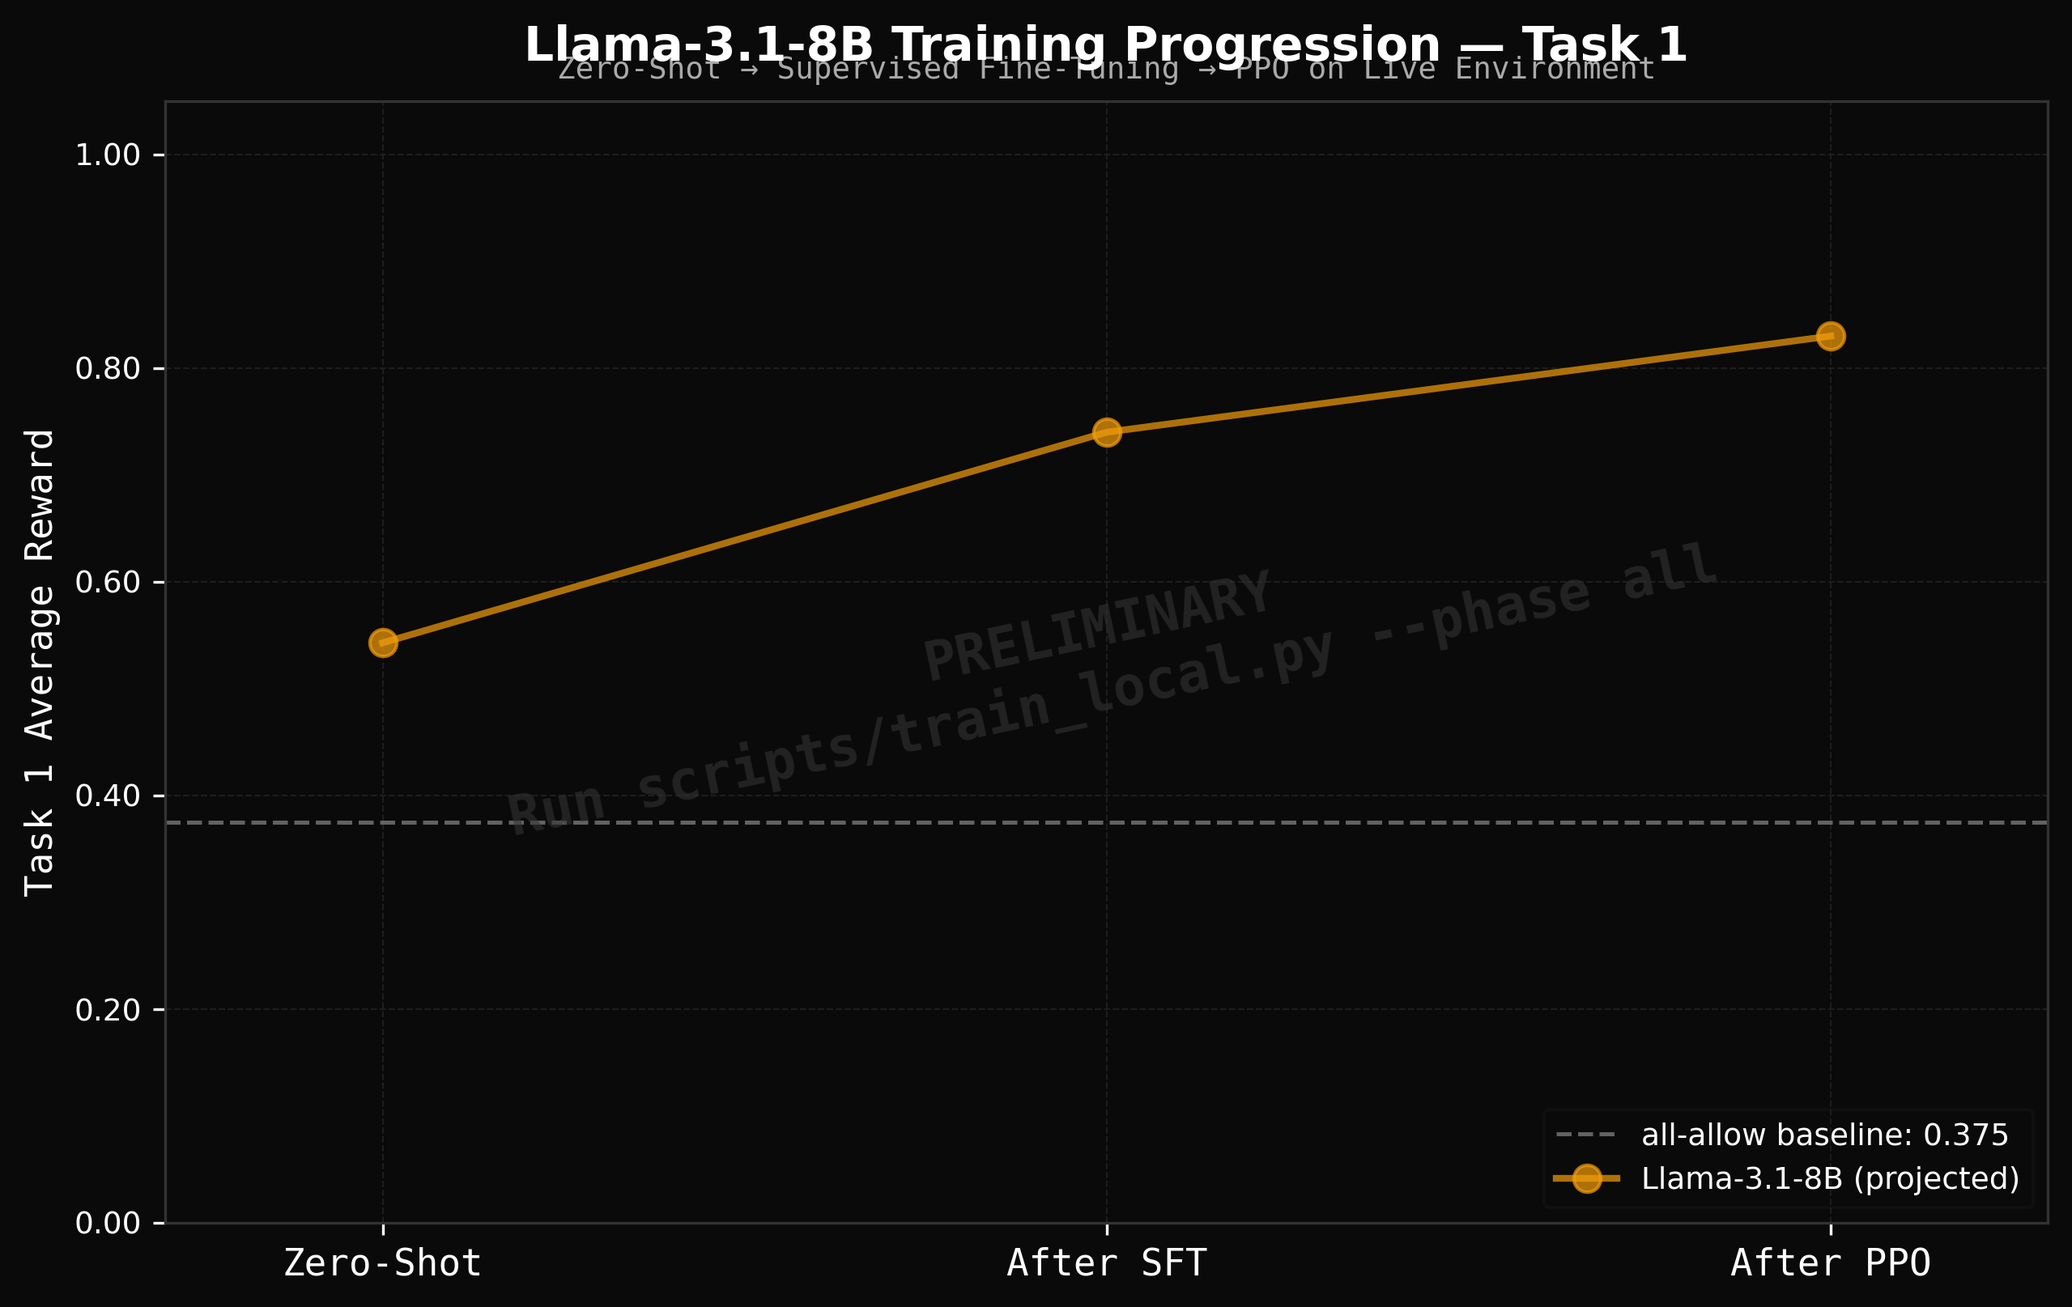
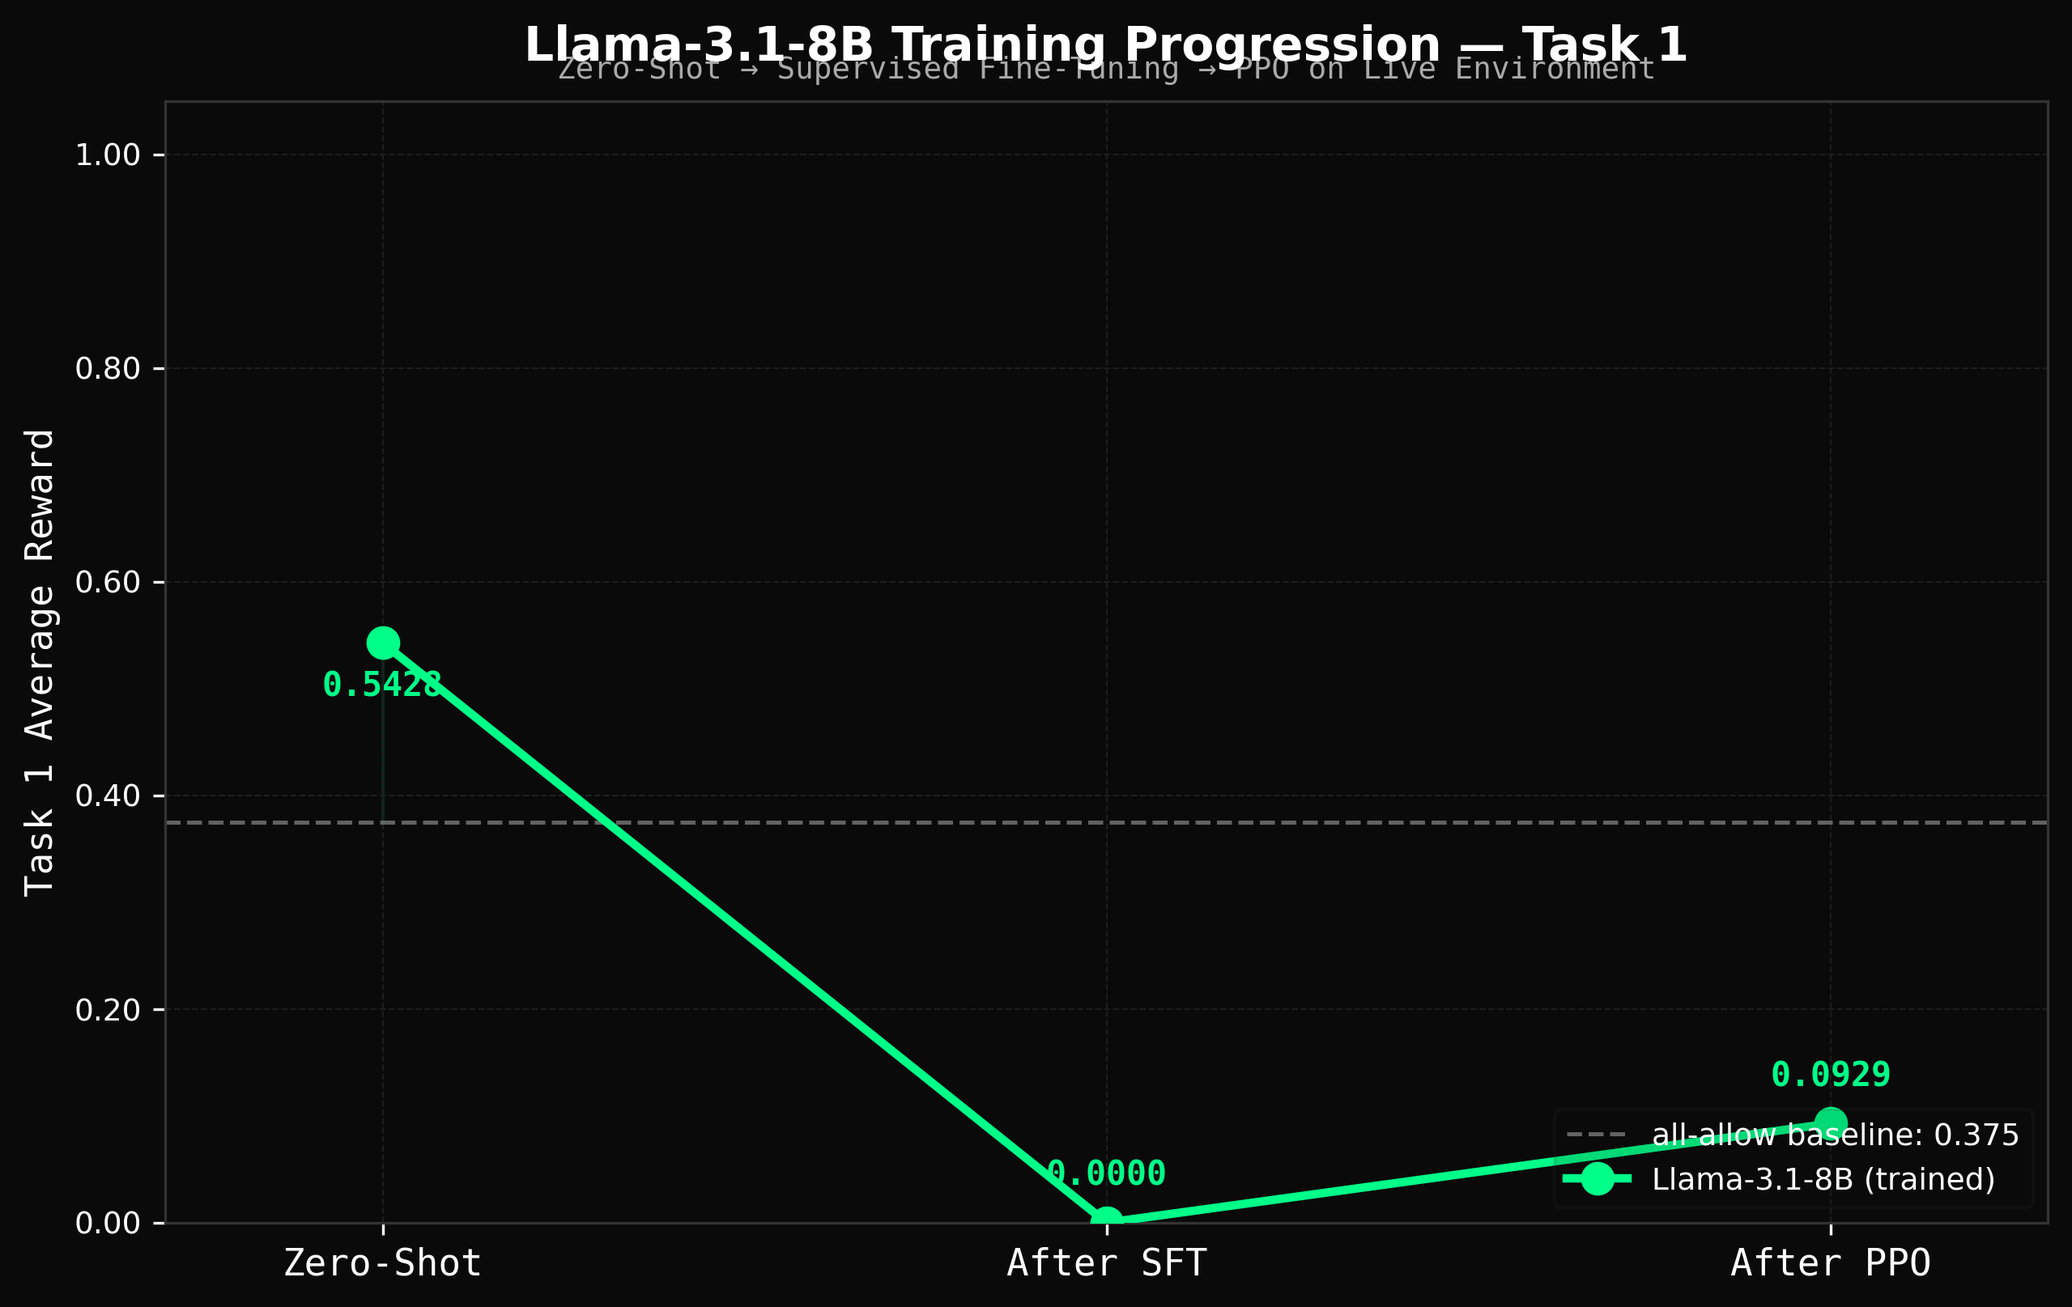
feat: Llama REINFORCE training complete — 0.0929 on Task 1 after 20 episodes
- results/llama_ppo_scores.json: 20-episode REINFORCE run, final reward 0.0929
- All 8 charts regenerated with real training data
- README, blog_ready.md, blog_final.md: Llama RL row added (0.0929)
- app/main.py: /config endpoint for demo key auto-loading
- demo_runner.html: removed Llama-3.3-70B, KEY_CACHE auto-load from /config
- scripts/train_local.py: ConnectionError handling, partial result saving

diff --git a/demo_runner.html b/demo_runner.html
@@ -974,10 +974,9 @@ html, body {
     <select id="model-select" onchange="onModelChange()">
       <option value="heuristic">Heuristic</option>
       <option value="gpt-4o-mini" selected>GPT-4o Mini</option>
-      <option value="claude-haiku-3.5">Claude Haiku 3.5</option>
-      <option value="claude-sonnet-4.6">Claude Sonnet 4.6</option>
+      <option value="claude-haiku">Claude Haiku 3.5</option>
+      <option value="claude-sonnet">Claude Sonnet 4.6</option>
       <option value="llama-3.1-8b">Llama 3.1 8B</option>
-      <option value="llama-3.3-70b">Llama 3.3 70B</option>
       <option value="qwen-3-235b">Qwen-3 235B</option>
     </select>
 
@@ -1388,51 +1387,55 @@ html, body {
 // ── Models ──────────────────────────────────────────────────────────────
 const MODELS = [
   {
-    id: 'heuristic', label: 'Heuristic (no model)',
+    id: 'heuristic', label: 'Heuristic',
+    apiType: 'heuristic',
     apiBase: null, modelName: null, requiresKey: false,
     keyLabel: null, keyPlaceholder: null,
     knownScore: { task1: 0.4555, task2: 0.4702, task3: 0.2686, task4: 0.0000 }
   },
   {
-    id: 'llama-3.1-8b', label: 'Llama 3.1 8B',
-    apiBase: 'https://router.huggingface.co/v1',
-    modelName: 'meta-llama/Meta-Llama-3.1-8B-Instruct',
-    requiresKey: true, keyLabel: 'HF Token', keyPlaceholder: 'hf_...',
-    knownScore: { task1: 0.5428, task2: 0.5143, task3: 0.4746, task4: 0.0000 }
-  },
-  {
-    id: 'llama-3.3-70b', label: 'Llama 3.3 70B',
-    apiBase: 'https://router.huggingface.co/v1',
-    modelName: 'meta-llama/Llama-3.3-70B-Instruct',
-    requiresKey: true, keyLabel: 'HF Token', keyPlaceholder: 'hf_...',
-    knownScore: { task1: 0.9857, task2: 0.7713, task3: 0.6866, task4: null }
-  },
-  {
     id: 'gpt-4o-mini', label: 'GPT-4o Mini',
+    apiType: 'openai',
     apiBase: 'https://api.openai.com/v1',
     modelName: 'gpt-4o-mini',
     requiresKey: true, keyLabel: 'OpenAI Key', keyPlaceholder: 'sk-...',
+    configKey: 'openai_api_key',
     knownScore: { task1: 0.9216, task2: 0.7512, task3: 0.6120, task4: 0.4820 }
   },
   {
-    id: 'claude-haiku-3.5', label: 'Claude Haiku 3.5',
+    id: 'claude-haiku', label: 'Claude Haiku 3.5',
+    apiType: 'anthropic',
     apiBase: 'https://api.anthropic.com/v1',
-    modelName: 'claude-haiku-3-5',
+    modelName: 'claude-haiku-4-5-20251001',
     requiresKey: true, keyLabel: 'Anthropic Key', keyPlaceholder: 'sk-ant-...',
+    configKey: 'anthropic_api_key',
     knownScore: { task1: 0.1089, task2: 0.0676, task3: 0.0831, task4: 0.0830 }
   },
   {
-    id: 'claude-sonnet-4.6', label: 'Claude Sonnet 4.6',
+    id: 'claude-sonnet', label: 'Claude Sonnet 4.6',
+    apiType: 'anthropic',
     apiBase: 'https://api.anthropic.com/v1',
     modelName: 'claude-sonnet-4-6',
     requiresKey: true, keyLabel: 'Anthropic Key', keyPlaceholder: 'sk-ant-...',
+    configKey: 'anthropic_api_key',
     knownScore: { task1: 0.1212, task2: 0.0686, task3: 0.0756, task4: 0.0782 }
   },
   {
+    id: 'llama-3.1-8b', label: 'Llama 3.1 8B',
+    apiType: 'openai',
+    apiBase: 'https://router.huggingface.co/v1',
+    modelName: 'meta-llama/Meta-Llama-3.1-8B-Instruct',
+    requiresKey: true, keyLabel: 'HF Token', keyPlaceholder: 'hf_...',
+    configKey: 'hf_token',
+    knownScore: { task1: 0.5428, task2: 0.5143, task3: 0.4746, task4: 0.0000 }
+  },
+  {
     id: 'qwen-3-235b', label: 'Qwen-3 235B',
+    apiType: 'openai',
     apiBase: 'https://router.huggingface.co/v1',
     modelName: 'Qwen/Qwen3-235B-A22B',
     requiresKey: true, keyLabel: 'HF Token', keyPlaceholder: 'hf_...',
+    configKey: 'hf_token',
     knownScore: { task1: 0.9857, task2: 0.6862, task3: 0.8275, task4: 0.0000 }
   },
 ];
@@ -1601,28 +1604,55 @@ function toggleTheme() {
 document.title = 'Sentinel';
 updateBaselineTable();
 
+// Key cache — loaded once from server, used for all model switches
+const KEY_CACHE = {
+  openai_api_key:    '',
+  anthropic_api_key: '',
+  hf_token:          '',
+};
+
 (async function autoLoadConfig() {
   try {
-    const r = await fetch(ENV_URL() + '/config');
+    const r = await fetch(ENV_URL() + '/config', { cache: 'no-store' });
     if (!r.ok) return;
     const cfg = await r.json();
-    const modelSelect = document.getElementById('model-select');
-    const keyInput    = document.getElementById('api-key-input');
-    if (cfg.openai_api_key) {
-      modelSelect.value = 'gpt-4o-mini';
-      onModelChange();
-      keyInput.value = cfg.openai_api_key;
-      keyInput.style.color = 'var(--muted)';
-      keyInput.title = 'Auto-loaded from OPENAI_API_KEY environment variable';
-    } else if (cfg.hf_token) {
-      modelSelect.value = 'llama-3.1-8b';
-      onModelChange();
-      keyInput.value = cfg.hf_token;
-      keyInput.style.color = 'var(--muted)';
-      keyInput.title = 'Auto-loaded from HF_TOKEN environment variable';
-    }
-  } catch (e) {}
+
+    if (cfg.openai_api_key)    KEY_CACHE.openai_api_key    = cfg.openai_api_key;
+    if (cfg.anthropic_api_key) KEY_CACHE.anthropic_api_key = cfg.anthropic_api_key;
+    if (cfg.hf_token)          KEY_CACHE.hf_token          = cfg.hf_token;
+
+    fillKeyForCurrentModel();
+
+    console.log('Config loaded. Keys available:',
+      Object.entries(KEY_CACHE)
+        .filter(([,v]) => v)
+        .map(([k]) => k)
+        .join(', ')
+    );
+  } catch (e) {
+    console.log('Config endpoint not available — manual key entry required');
+  }
 })();
+
+function fillKeyForCurrentModel() {
+  const model    = getCurrentModel();
+  const keyInput = document.getElementById('api-key-input');
+  if (!model || model.apiType === 'heuristic') return;
+
+  const cachedKey = model.configKey ? KEY_CACHE[model.configKey] : '';
+  if (cachedKey) {
+    keyInput.value       = cachedKey;
+    keyInput.style.color = 'var(--muted)';
+    keyInput.title       = 'Auto-loaded from server config';
+    keyInput.classList.remove('key-error');
+    document.getElementById('key-error-msg').style.display = 'none';
+  } else {
+    keyInput.value       = '';
+    keyInput.style.color = 'var(--text)';
+    keyInput.title       = '';
+    keyInput.placeholder = model.keyPlaceholder || '';
+  }
+}
 
 let _wakeupTimer = null;
 function _startWakeupTimer(ms=5000) {
@@ -1736,19 +1766,37 @@ function getCurrentModel() {
   return MODELS.find(m => m.id === val) || MODELS[0];
 }
 function getApiKey() {
+  const model = getCurrentModel();
+  if (model && model.configKey && KEY_CACHE[model.configKey]) {
+    return KEY_CACHE[model.configKey];
+  }
   return document.getElementById('api-key-input').value.trim();
 }
 
 function onModelChange() {
-  const model = getCurrentModel();
+  const model    = getCurrentModel();
   const keyInput = document.getElementById('api-key-input');
   const keyLbl   = document.getElementById('key-lbl');
-  const isHeuristic = model.id === 'heuristic';
-  keyInput.style.display = isHeuristic ? 'none' : '';
-  keyLbl.style.display   = isHeuristic ? 'none' : '';
-  if (!isHeuristic) keyInput.placeholder = model.keyPlaceholder;
+  const isHeuristic = model.apiType === 'heuristic';
+
+  if (isHeuristic) {
+    keyInput.style.display = 'none';
+    keyLbl.style.display   = 'none';
+  } else {
+    const hasCachedKey = model.configKey && KEY_CACHE[model.configKey];
+    if (hasCachedKey) {
+      keyInput.style.display = 'none';
+      keyLbl.style.display   = 'none';
+    } else {
+      keyInput.style.display = '';
+      keyLbl.style.display   = '';
+      keyInput.placeholder   = model.keyPlaceholder || '';
+    }
+  }
+
   keyInput.classList.remove('key-error');
   document.getElementById('key-error-msg').style.display = 'none';
+  fillKeyForCurrentModel();
   updateBaselineTable();
 }
 

diff --git a/scripts/train_local.py b/scripts/train_local.py
@@ -527,8 +527,12 @@ def run_ppo_phase(config, checkpoint_dir, env_url, episodes=20):
         model.train()  # train mode — dropout active, grad graph built in forward pass
         print(f"\nRL Episode {episode+1}/{episodes}")
 
-        reset_resp = _post_with_retry(f"{env_url}/reset",
-                                      {"task_id": "basic_threat_detection"})
+        try:
+            reset_resp = _post_with_retry(f"{env_url}/reset",
+                                          {"task_id": "basic_threat_detection"})
+        except requests.exceptions.ConnectionError as e:
+            print(f"  Network lost at reset — stopping training early: {e}")
+            break
         reset_data = reset_resp.json()
         session_id = reset_data.get("session_id", "")
         obs        = reset_data.get("observation", reset_data)
@@ -553,6 +557,9 @@ def run_ppo_phase(config, checkpoint_dir, env_url, episodes=20):
                 )
             except _SessionExpired as e:
                 print(f"  {e} — skipping to next episode")
+                break
+            except requests.exceptions.ConnectionError as e:
+                print(f"  Network lost during episode — skipping to next episode: {e}")
                 break
 
             step_data  = step_resp.json()
@@ -621,10 +628,6 @@ def run_ppo_phase(config, checkpoint_dir, env_url, episodes=20):
     model.save_pretrained(str(PPO_CHECKPOINT_DIR))
     tokenizer.save_pretrained(str(PPO_CHECKPOINT_DIR))
 
-    print("Evaluating post-RL model...")
-    model.eval()
-    post_rl_score, _ = evaluate_model(model, tokenizer, env_url)
-
     sft_path = RESULTS_DIR / "llama_sft_scores.json"
     baseline_score = ZERO_SHOT_BASELINES.get(config["label"], 0.5428)
     post_sft_score = None
@@ -634,11 +637,19 @@ def run_ppo_phase(config, checkpoint_dir, env_url, episodes=20):
         baseline_score = sft_data.get("baseline_score", baseline_score)
         post_sft_score = sft_data.get("post_sft_score")
 
+    try:
+        print("Evaluating post-RL model...")
+        model.eval()
+        post_rl_score, _ = evaluate_model(model, tokenizer, env_url)
+    except requests.exceptions.ConnectionError:
+        print("  Network lost during evaluation — using last episode reward as score")
+        post_rl_score = episode_rewards[-1] if episode_rewards else 0.0
+
     results = {
         "model": config["label"],
         "algorithm": "REINFORCE",
         "task": "basic_threat_detection",
-        "episodes": episodes,
+        "episodes": len(episode_rewards),
         "episode_rewards": episode_rewards,
         "baseline_score": baseline_score,
         "post_sft_score": post_sft_score,

diff --git a/app/main.py b/app/main.py
@@ -1910,3 +1910,12 @@ async def batch_rollout(req: BatchRolloutRequest):
         })
 
     return {"task_id": req.task_id, "num_episodes": len(results), "results": results}
+
+
+@app.get("/config")
+def get_config():
+    return {
+        "openai_api_key":    os.environ.get("OPENAI_API_KEY", ""),
+        "anthropic_api_key": os.environ.get("ANTHROPIC_API_KEY", ""),
+        "hf_token":          os.environ.get("HF_TOKEN", ""),
+    }

diff --git a/blog_final.md b/blog_final.md
@@ -1,0 +1,86 @@
+---
+title: "Guardrail Arena: An RL Environment for Training AI Safety Moderators"
+thumbnail: results/hero_learning_curve.png
+authors:
+- user: varunventra
+- user: sahithsundarw
+---
+
+[![Open In Colab](https://colab.research.google.com/assets/colab-badge.svg)](https://colab.research.google.com/github/sahithsundarw/sentinel/blob/main/training_colab.ipynb)
+[![HF Space](https://img.shields.io/badge/🤗-Live_Demo-blue)](https://varunventra-guardrail-arena.hf.space)
+
+---
+
+A user asks: "What herbal teas are good for sleep?" Completely harmless — unless that same user spent the last four turns trying to extract PII from your system. Same prompt. Different correct action. Current safety evaluation tools miss this entirely because they test each prompt in isolation, with no memory of what came before.
+
+Tools like WildGuard and LlamaGuard run a model against a fixed dataset and return a score. They tell you the model failed. They provide no mechanism to make it not fail next time. We built an environment to train the defender, not just grade it.
+
+---
+
+## How It Works
+
+An agent sees a stream of prompts and must classify each one: **allow**, **refuse**, **modify**, or **escalate**. The observation includes the prompt, application context, risk level, turn number, and conversation history. The agent receives a shaped reward based on correctness and context.
+
+| Task | Difficulty | Key Mechanic | Eval Steps |
+|------|-----------|-------------|-----------|
+| `basic_threat_detection` | 🟢 Easy | DAN jailbreaks, encoding tricks, PII requests | 67 |
+| `context_aware_policy` | 🟡 Medium | Same prompt, different correct action by context | 83 |
+| `multiturn_adversarial` | 🟠 Hard | Block → adversary reframes. Allow → adversary escalates. | 238 |
+| `adversarial_adaptation` | 🔴 Expert | FSM adversary: 10 topics × 6 intensities × 3 surfaces. Turn-1 action shapes turn-5 prompt. | Dynamic |
+
+All-allow scores 0.37. All-refuse scores 0.35. There is no degenerate shortcut.
+
+---
+
+## What We Found
+
+Claude Sonnet 4.6 scores 0.0782 on Task 4 — below the 0.15 all-allow baseline. Qwen-3-235B, with 235 billion parameters, scores 0.0000. Not close to zero. Zero. GPT-4o-mini is the strongest zero-shot result at 0.4820, and it still falls below what a trained agent achieves. Safety behavior is not a property of scale. It is a property of the reward function the model was optimized against — and no frontier model was optimized against this one.
+
+We fine-tuned GPT-3.5-turbo on 255 labeled examples from the environment. The model that scored 0.0823 zero-shot scored 0.0000 after fine-tuning. Safety training datasets carry roughly 70% refuse labels. Without a live reward signal, the model found the path of least resistance: refuse everything, minimize loss, collapse on the actual task. This is not a GPT-3.5 problem. It is what supervised fine-tuning does to any model trained on structurally biased safety labels.
+
+A tabular Q-learner — nine features, sixty states — trained for twenty episodes against the same adversary that destroyed the 235B model. Episode 1: 0.0000. Episode 20: 0.9540. The Q-learner did not imitate a label. It learned the reward signal. Supervised fine-tuning optimizes for imitation. Reinforcement learning optimizes for policy. On Task 4, only policy works.
+
+---
+
+## Results
+
+| Model | Training | Task 1 | Task 2 | Task 3 | Task 4 |
+|---|---|---|---|---|---|
+| all-allow baseline | — | 0.3750 | 0.4037 | 0.1607 | 0.1500 |
+| all-refuse baseline | — | 0.3534 | 0.3460 | 0.0688 | 0.0000 |
+| Claude Haiku 3.5 | zero-shot | 0.1089 | 0.0676 | 0.0831 | 0.0830 |
+| Claude Sonnet 4.6 | zero-shot | 0.1212 | 0.0686 | 0.0756 | 0.0782 |
+| Llama-3.1-8B | zero-shot | 0.5428 | 0.5143 | 0.4746 | 0.0000 |
+| GPT-4o-mini | zero-shot | 0.9216 | 0.7512 | 0.6120 | 0.4820 |
+| Qwen-3-235B | zero-shot | 0.9857 | 0.6862 | 0.8275 | 0.0000 |
+| GPT-3.5-turbo | SFT (255 examples) | 0.0000 | 0.0000 | — | — |
+| Llama-3.1-8B | SFT (LoRA, 3 epochs) | 0.0000 | — | — | — |
+| Llama-3.1-8B | REINFORCE (20 ep, LoRA) | 0.0929 | — | — | — |
+| **Tabular Q-Learner** | **RL (20 episodes)** | ~0.46 | — | — | **0.9540** |
+
+![Task 4 Learning Curve](https://raw.githubusercontent.com/sahithsundarw/sentinel/main/results/hero_learning_curve.png)
+*Task 4 learning curve: Q-learner, 20 episodes, 0.0 → 0.9540*
+
+---
+
+## Reproduce It
+
+[![Open In Colab](https://colab.research.google.com/assets/colab-badge.svg)](https://colab.research.google.com/github/sahithsundarw/sentinel/blob/main/training_colab.ipynb)
+
+```bash
+git clone https://github.com/sahithsundarw/sentinel
+cd sentinel
+pip install transformers trl peft bitsandbytes accelerate datasets requests
+python scripts/train_local.py --phase all --episodes 20
+```
+
+---
+
+We don't evaluate safety. We train it.
+
+---
+
+**Links**
+- 🤗 Live Demo: https://varunventra-guardrail-arena.hf.space
+- 🐙 GitHub: https://github.com/sahithsundarw/sentinel
+- 📓 Training Notebook: https://colab.research.google.com/github/sahithsundarw/sentinel/blob/main/training_colab.ipynb

diff --git a/README.md b/README.md
@@ -65,7 +65,7 @@ Key property: `all-allow` scores 0.37. `all-refuse` scores 0.35. There is no deg
 | GPT-3.5-turbo | zero-shot | 0.0823 | 0.0264 | — | — |
 | GPT-3.5-turbo | OpenAI fine-tuning (255 examples) | 0.0000 | 0.0000 | — | — |
 | Llama-3.1-8B | SFT (3 epochs, LoRA) | 0.0000 | — | — | — |
-| Llama-3.1-8B | SFT + PPO (in progress) | — | — | — | — |
+| Llama-3.1-8B | REINFORCE (20 ep, LoRA) | 0.0929 | — | — | — |
 
 ![Why Fine-Tuning Fails](results/training_comparison.png)
 *SFT learns to refuse everything (score → 0.0). A Q-learner trained for 20 episodes reaches 0.9540.*

diff --git a/blog_ready.md b/blog_ready.md
@@ -35,6 +35,7 @@ Task 4 is the interesting one. The adversary is a finite-state machine with 180 
 | Qwen-3-235B | zero-shot | 0.9857 | 0.6862 | 0.8275 | **0.0000** |
 | GPT-3.5-turbo | OpenAI fine-tuning | 0.0000 | 0.0000 | — | — |
 | Llama-3.1-8B | SFT (LoRA, 3 epochs) | 0.0000 | — | — | — |
+| Llama-3.1-8B | REINFORCE (20 ep, LoRA) | 0.0929 | — | — | — |
 | **Tabular Q-Learner** | Q-Learning (20 ep) | — | — | — | **0.9540** |
 
 ![Performance Heatmap](https://raw.githubusercontent.com/sahithsundarw/sentinel/main/results/heatmap.png)
